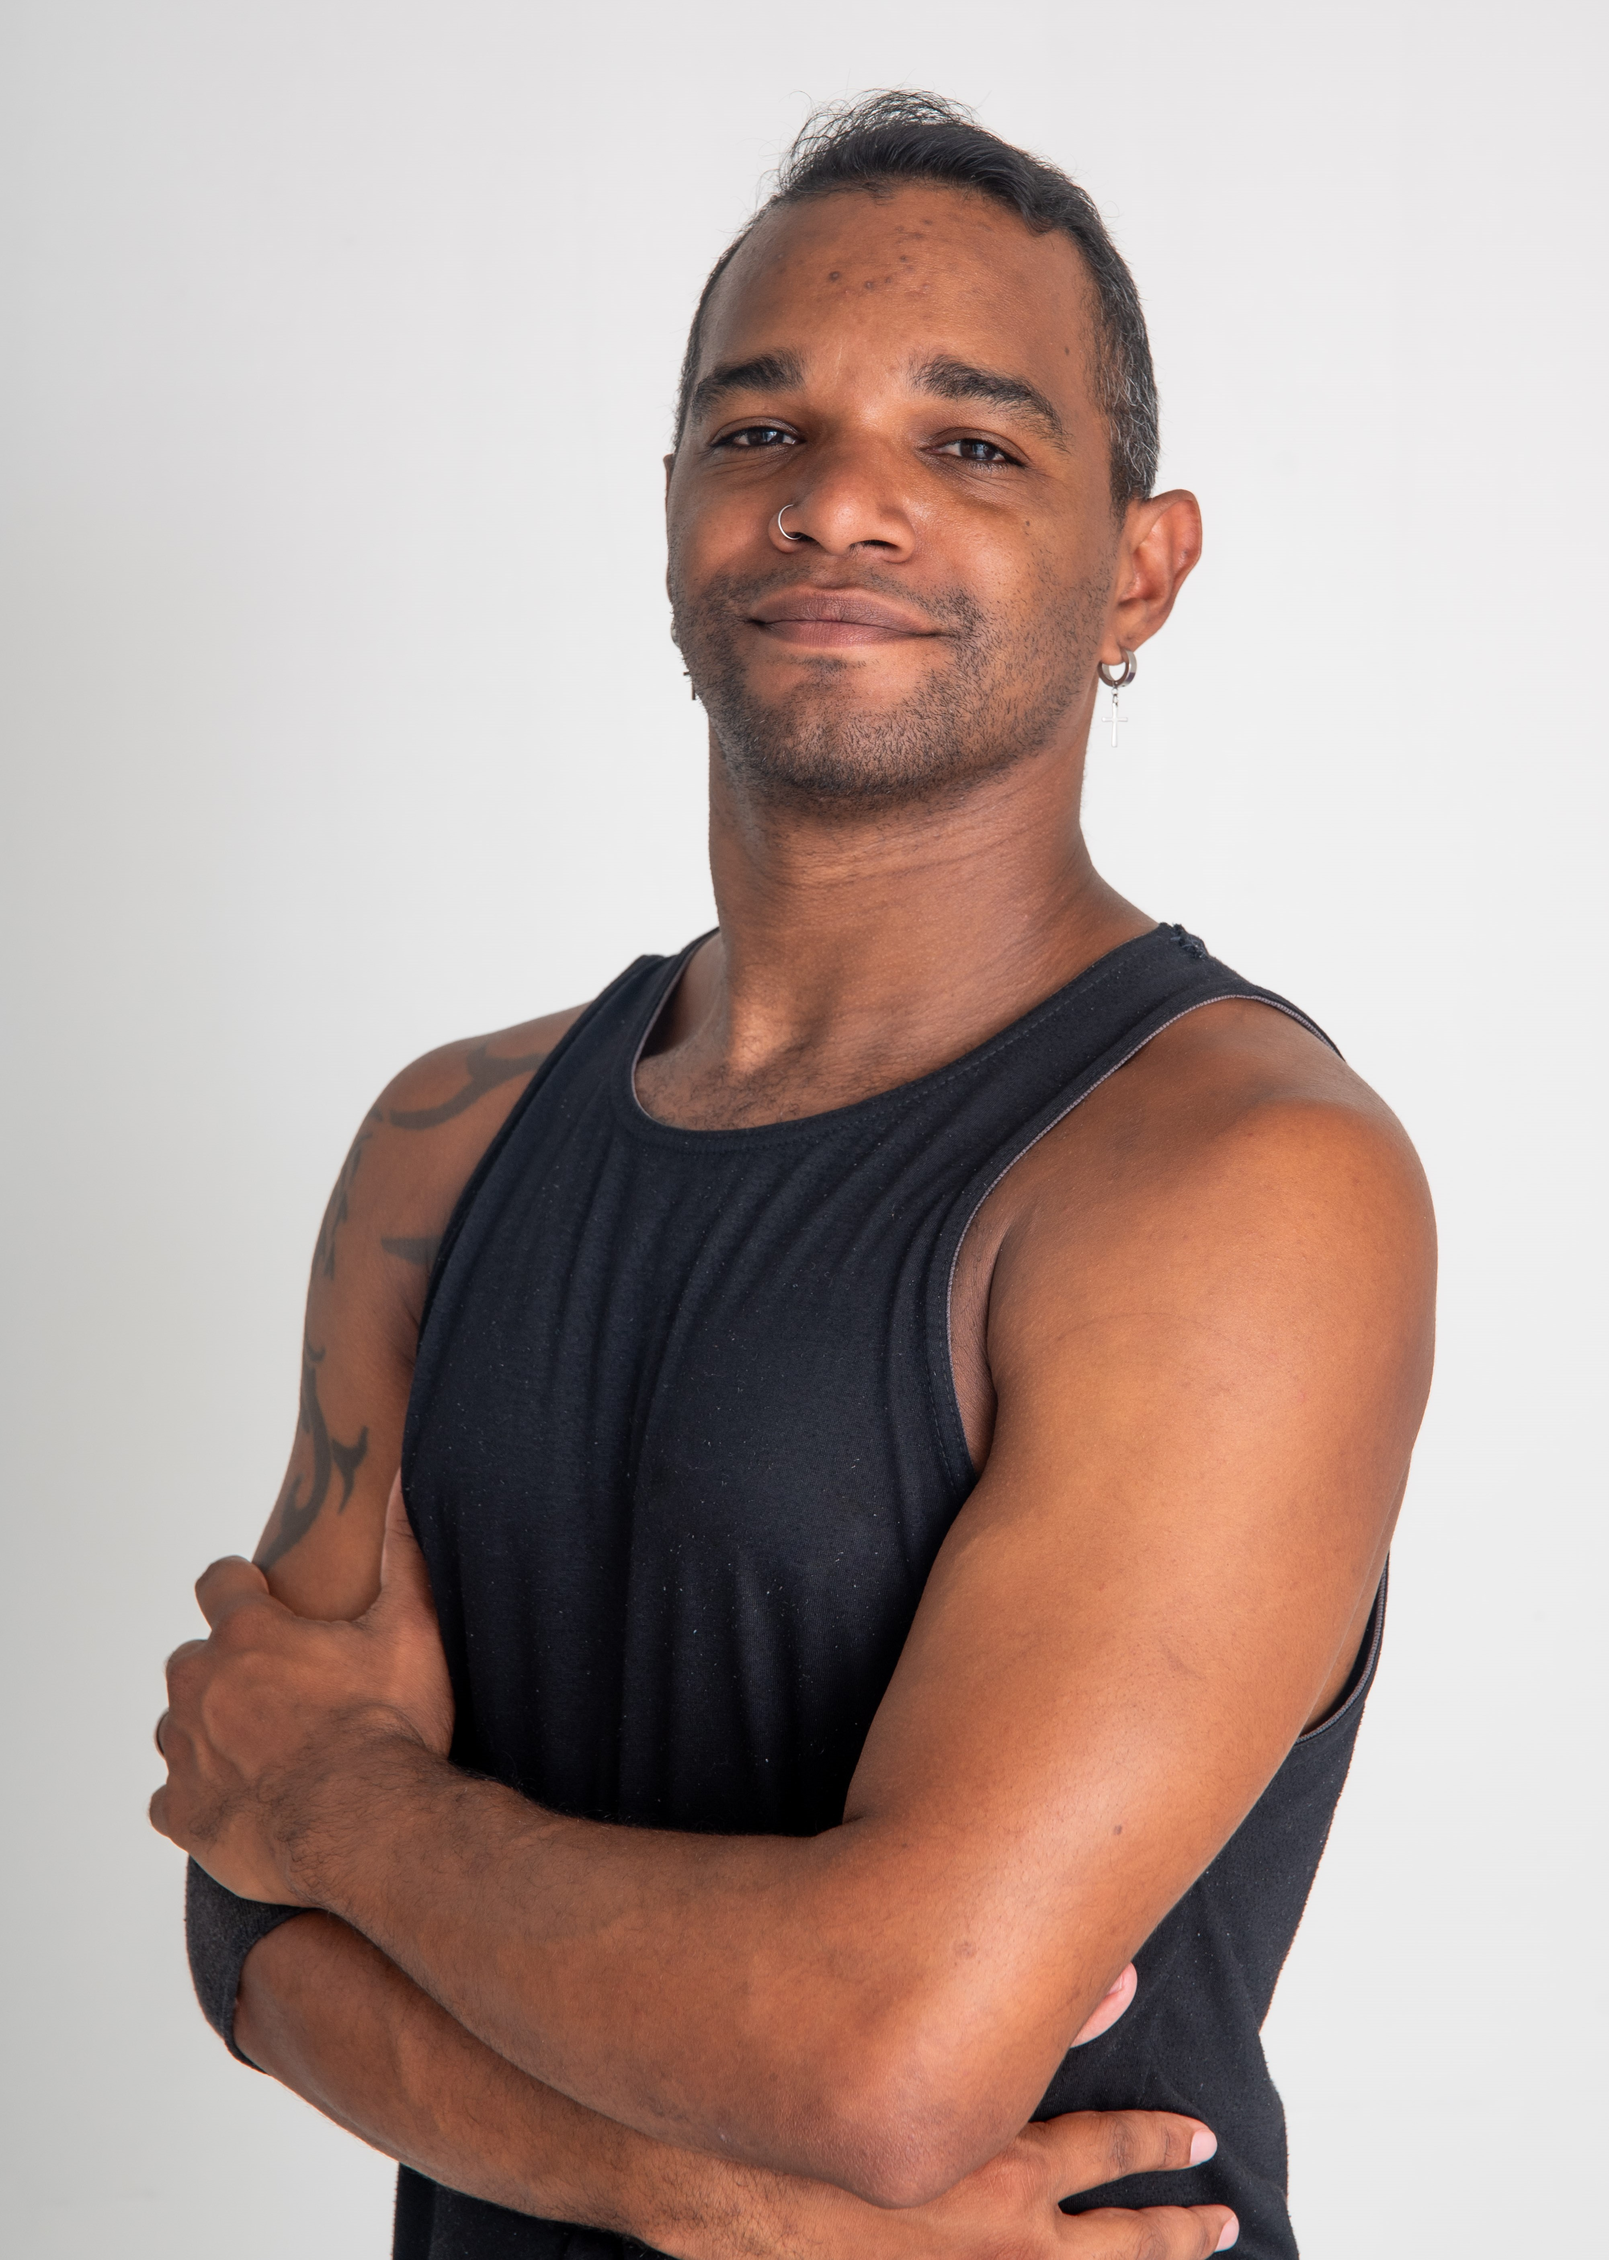
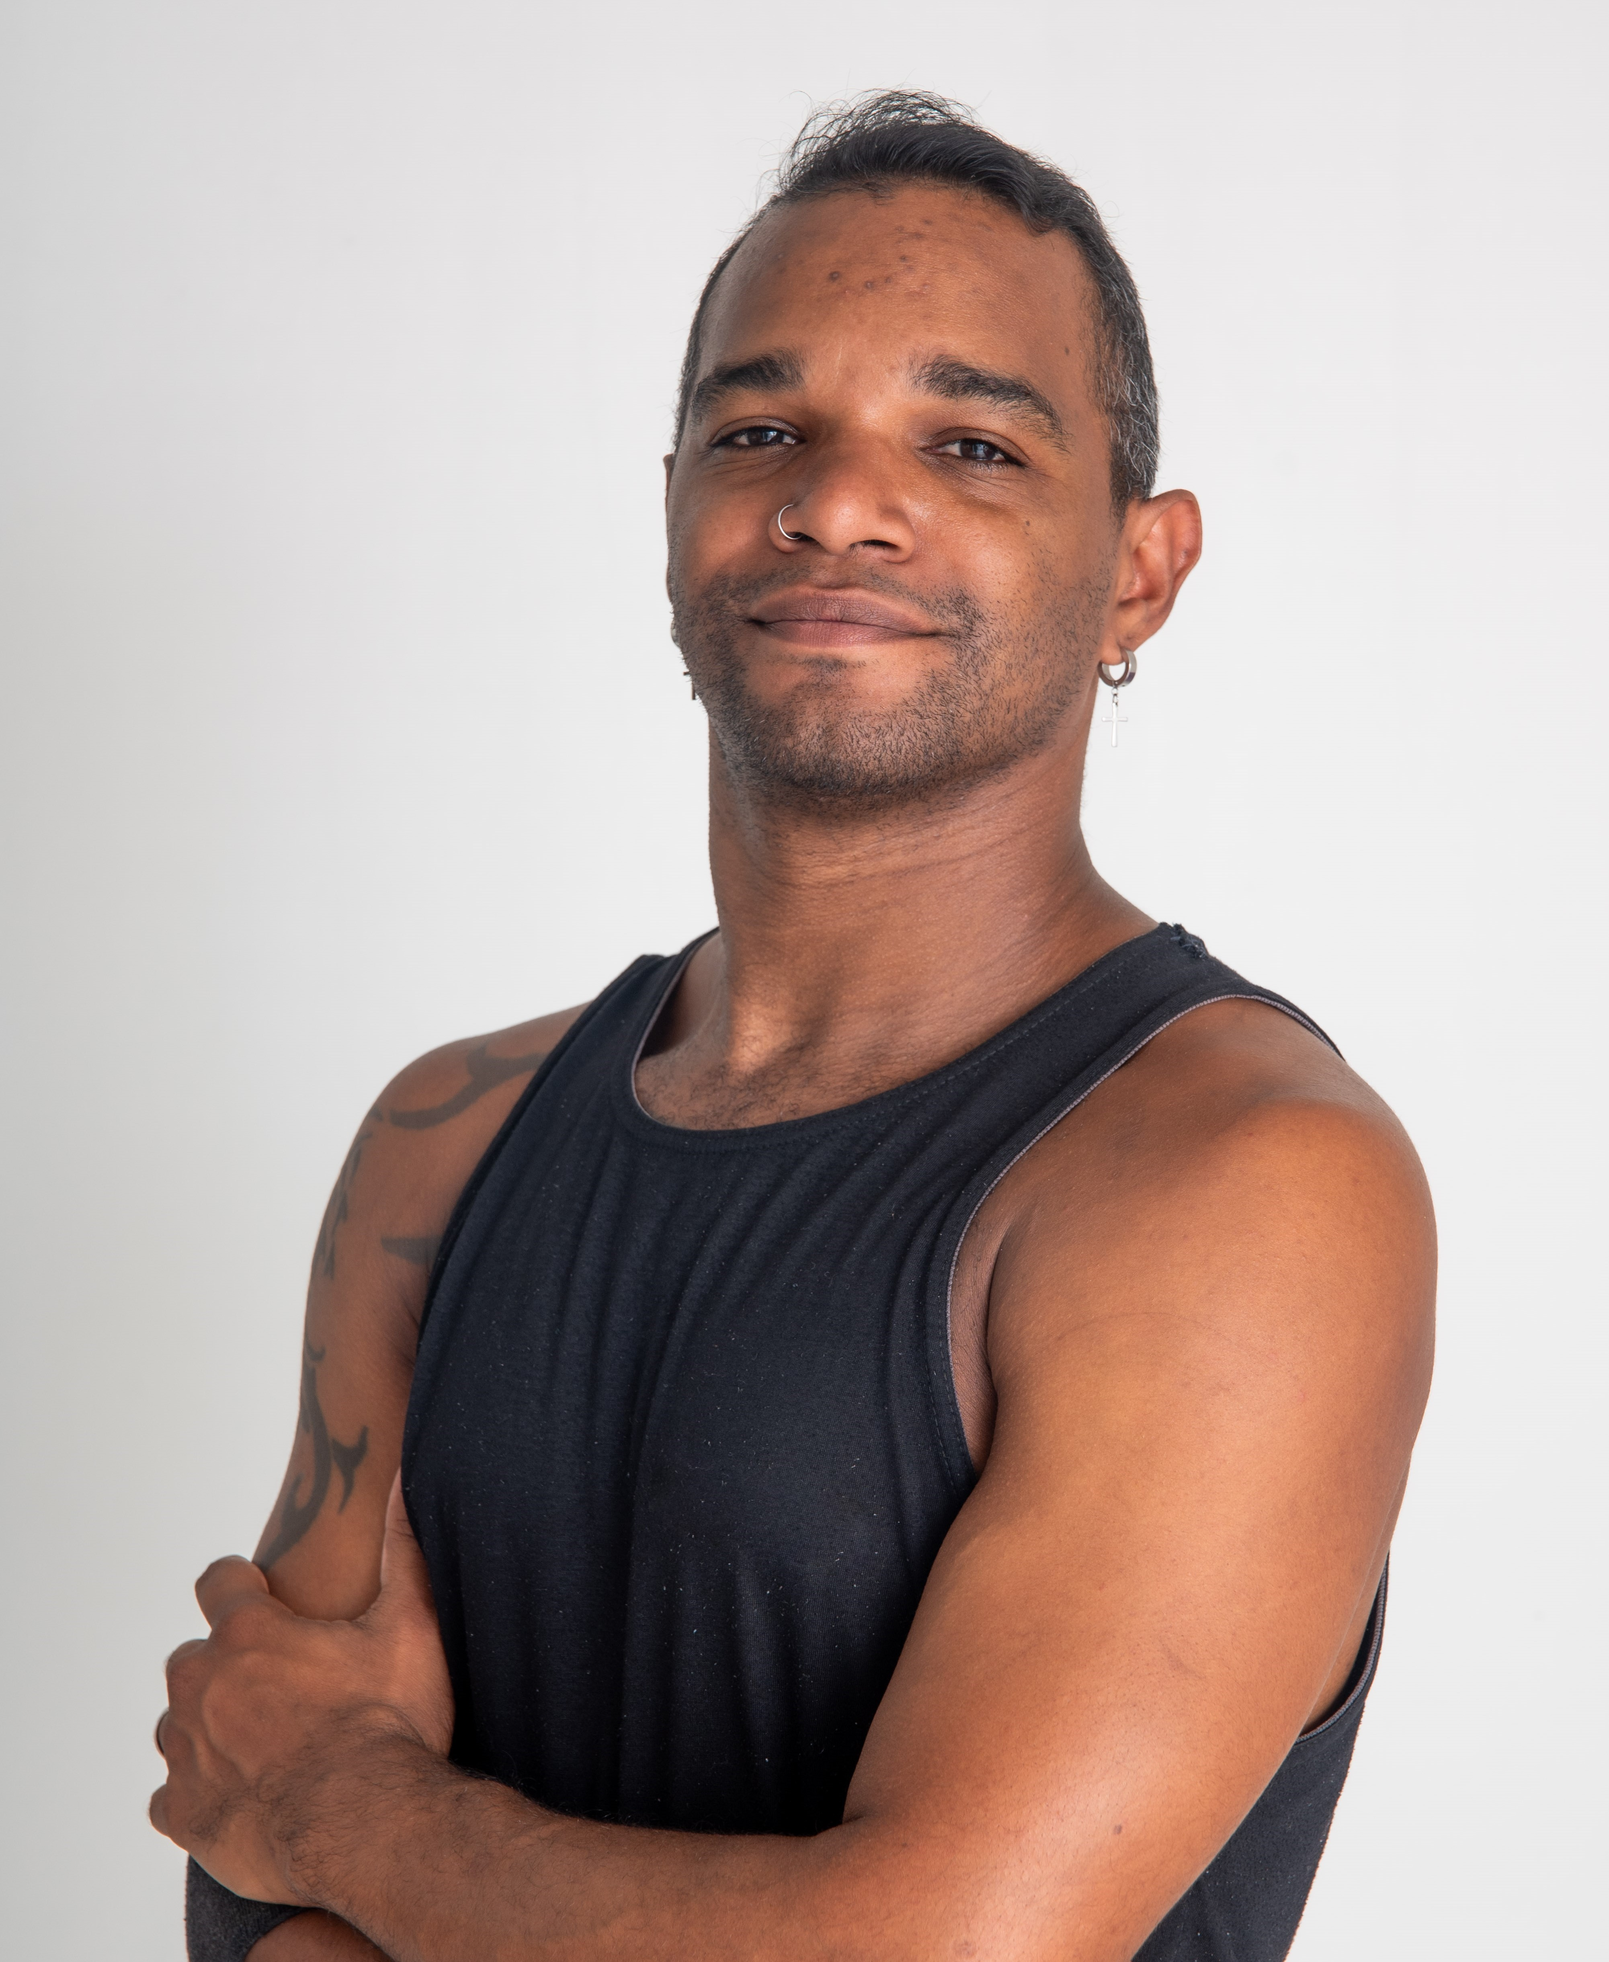
trocando endereço das imagens do elenco, e consumindo imagens do pexels

diff --git a/index.html b/index.html
@@ -409,7 +409,7 @@
         <div class="box-coordenadores">
             <a href="#">
             <div class="img-text">
-                <img src="./img/elenco/LX1_1781.jpg" alt="">
+                <img src="https://images.pexels.com/photos/23285860/pexels-photo-23285860.jpeg?auto=compress&cs=tinysrgb&w=1260&h=750&dpr=1" alt="">
                 <p> Lorem, ipsum dolor sit amet consectetur adipisicing 
                     elit. Eius earum omnis enim repudiandae perferendis fugit 
                     quia accusamus, labore cupiditate amet dolore a rerum dolorum 
@@ -425,7 +425,7 @@
         <div class="box-coordenadores">
             <a href="#">
             <div class="img-text">
-                <img src="./img/elenco/LX1_1557.jpg" alt="">
+                <img src="https://images.pexels.com/photos/23285895/pexels-photo-23285895.jpeg?auto=compress&cs=tinysrgb&w=1260&h=750&dpr=1" alt="">
                 
                 <p> Lorem, ipsum dolor sit amet consectetur adipisicing 
                     elit. Eius earum omnis enim repudiandae perferendis fugit 
@@ -441,7 +441,7 @@
         <div class="box-coordenadores">
             <a href="#">
             <div class="img-text">
-                <img src="./img/elenco/LX1_1628.jpg" alt="">
+                <img src="https://images.pexels.com/photos/23285900/pexels-photo-23285900.jpeg?auto=compress&cs=tinysrgb&w=1260&h=750&dpr=1" alt="">
                 
                 <p> Lorem, ipsum dolor sit amet consectetur adipisicing 
                     elit. Eius earum omnis enim repudiandae perferendis fugit 
@@ -457,7 +457,7 @@
         <div class="box-coordenadores">
             <a href="#">
             <div class="img-text">
-                <img src="./img/elenco/LX1_1781.jpg" alt="">
+                <img src="./img/elenco/luzem.jpeg" alt="">
                 
                 <p> Lorem, ipsum dolor sit amet consectetur adipisicing 
                     elit. Eius earum omnis enim repudiandae perferendis fugit 
@@ -484,13 +484,10 @@
         <div class="box-coordenadores">
             <a href="#">
             <div class="img-text">
-                <img src="./img/elenco/LX1_1490.jpg" alt="">
+                <img src="https://images.pexels.com/photos/23285889/pexels-photo-23285889.jpeg?auto=compress&cs=tinysrgb&w=1260&h=750&dpr=1" alt="">
                 <p> Lorem, ipsum dolor sit amet consectetur adipisicing 
                     elit. Eius earum omnis enim repudiandae perferendis fugit 
-                    quia accusamus, labore cupiditate amet dolore a rerum dolorum 
-                    nobis tenetur ad fugiat? Iste, nisi!
-                    Lorem, ipsum dolor sit amet consectetur adipisicing 
-                    elit.  Saiba mais..
+                      Saiba mais..
                 </p>
             </div> <!-- FIM IMG TEXT-->
             </a>
@@ -500,7 +497,7 @@
         <div class="box-coordenadores">
             <a href="#">
             <div class="img-text">
-                <img src="./img/elenco/LX1_1512.jpg" alt="">
+                <img src="https://images.pexels.com/photos/23285893/pexels-photo-23285893.jpeg?auto=compress&cs=tinysrgb&w=600&lazy=load" alt="">
                 
                 <p> Lorem, ipsum dolor sit amet consectetur adipisicing 
                     elit. Eius earum omnis enim repudiandae perferendis fugit 
@@ -516,8 +513,7 @@
         <div class="box-coordenadores">
             <a href="#">
             <div class="img-text">
-                <img src="./img/elenco/LX1_1480.jpg" alt="">
-                
+                <img src="https://images.pexels.com/photos/23285886/pexels-photo-23285886.jpeg?auto=compress&cs=tinysrgb&w=1260&h=750&dpr=1" alt="">
                 <p> Lorem, ipsum dolor sit amet consectetur adipisicing 
                     elit. Eius earum omnis enim repudiandae perferendis fugit 
                     quia accusamus, labore cupiditate amet dolore a rerum dolorum  
@@ -532,7 +528,7 @@
         <div class="box-coordenadores">
             <a href="#">
             <div class="img-text">
-                <img src="./img/elenco/LX1_1399-Editar.jpg" alt="">
+                <img src="https://images.pexels.com/photos/23285846/pexels-photo-23285846.jpeg?auto=compress&cs=tinysrgb&w=1260&h=750&dpr=1" alt="">
                 
                 <p> Lorem, ipsum dolor sit amet consectetur adipisicing 
                     elit. Eius earum omnis enim repudiandae perferendis fugit 
@@ -549,7 +545,7 @@
         <div class="box-coordenadores">
             <a href="#">
             <div class="img-text">
-                <img src="./img/elenco/LX1_1407.jpg" alt="">
+                <img src="https://images.pexels.com/photos/23285862/pexels-photo-23285862.jpeg?auto=compress&cs=tinysrgb&w=1260&h=750&dpr=1" alt="">
                 
                 <p> Lorem, ipsum dolor sit amet consectetur adipisicing 
                     elit. Eius earum omnis enim repudiandae perferendis fugit 
@@ -565,7 +561,7 @@
         <div class="box-coordenadores">
             <a href="#">
             <div class="img-text">
-                <img src="./img/elenco/LX1_1469.jpg" alt="">
+                <img src="https://images.pexels.com/photos/23285885/pexels-photo-23285885.jpeg?auto=compress&cs=tinysrgb&w=1260&h=750&dpr=1" alt="">
                 
                 <p> Lorem, ipsum dolor sit amet consectetur adipisicing 
                     elit. Eius earum omnis enim repudiandae perferendis fugit 
@@ -581,7 +577,7 @@
         <div class="box-coordenadores">
             <a href="#">
             <div class="img-text">
-                <img src="./img/elenco/LX1_1428.jpg" alt="">
+                <img src="https://images.pexels.com/photos/23285884/pexels-photo-23285884.jpeg?auto=compress&cs=tinysrgb&w=1260&h=750&dpr=1" alt="">
                 
                 <p> Lorem, ipsum dolor sit amet consectetur adipisicing 
                     elit. Eius earum omnis enim repudiandae perferendis fugit 
@@ -597,7 +593,7 @@
         <div class="box-coordenadores">
             <a href="#">
             <div class="img-text">
-                <img src="./img/elenco/LX1_1411.jpg" alt="">
+                <img src="https://images.pexels.com/photos/23285865/pexels-photo-23285865.jpeg?auto=compress&cs=tinysrgb&w=1260&h=750&dpr=1" alt="">
                 
                 <p> Lorem, ipsum dolor sit amet consectetur adipisicing 
                     elit. Eius earum omnis enim repudiandae perferendis fugit 
@@ -613,7 +609,7 @@
         <div class="box-coordenadores">
             <a href="#">
             <div class="img-text">
-                <img src="./img/elenco/LX1_1602.jpg" alt="">
+                <img src="https://images.pexels.com/photos/23285899/pexels-photo-23285899.jpeg?auto=compress&cs=tinysrgb&w=1260&h=750&dpr=1" alt="">
                 
                 <p> Lorem, ipsum dolor sit amet consectetur adipisicing 
                     elit. Eius earum omnis enim repudiandae perferendis fugit 
@@ -629,7 +625,7 @@
         <div class="box-coordenadores">
             <a href="#">
             <div class="img-text">
-                <img src="./img/elenco/LX1_1413.jpg" alt="">
+                <img src="https://images.pexels.com/photos/23285867/pexels-photo-23285867.jpeg?auto=compress&cs=tinysrgb&w=1260&h=750&dpr=1" alt="">
                 
                 <p> Lorem, ipsum dolor sit amet consectetur adipisicing 
                     elit. Eius earum omnis enim repudiandae perferendis fugit 
@@ -645,7 +641,7 @@
         <div class="box-coordenadores">
             <a href="#">
             <div class="img-text">
-                <img src="./img/elenco/LX1_1505.jpg" alt="">
+                <img src="https://images.pexels.com/photos/23285891/pexels-photo-23285891.jpeg?auto=compress&cs=tinysrgb&w=1260&h=750&dpr=1" alt="">
                 
                 <p> Lorem, ipsum dolor sit amet consectetur adipisicing 
                     elit. Eius earum omnis enim repudiandae perferendis fugit 

diff --git a/css/elenco.css b/css/elenco.css
@@ -14,7 +14,6 @@
     display: flex;
     flex-direction: row;
     gap: 30px;
-    justify-content: space-around;
     overflow-x: scroll;
     margin: 0 auto;
 }
